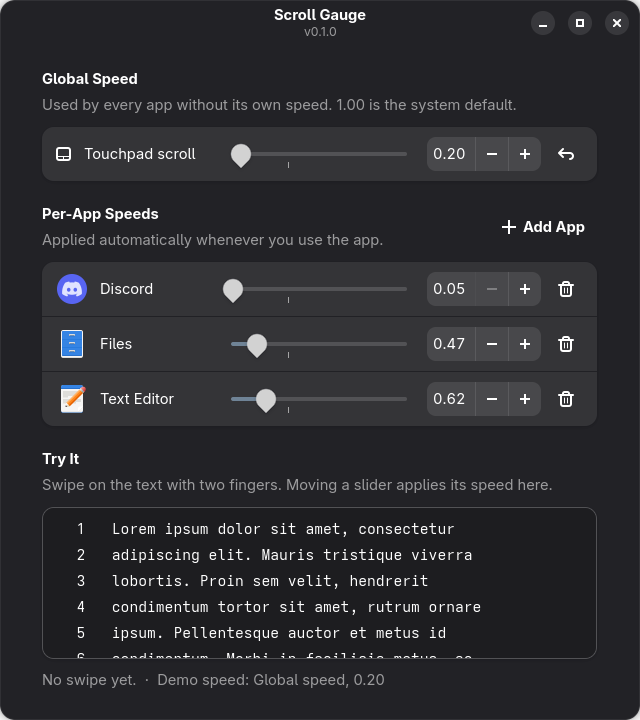
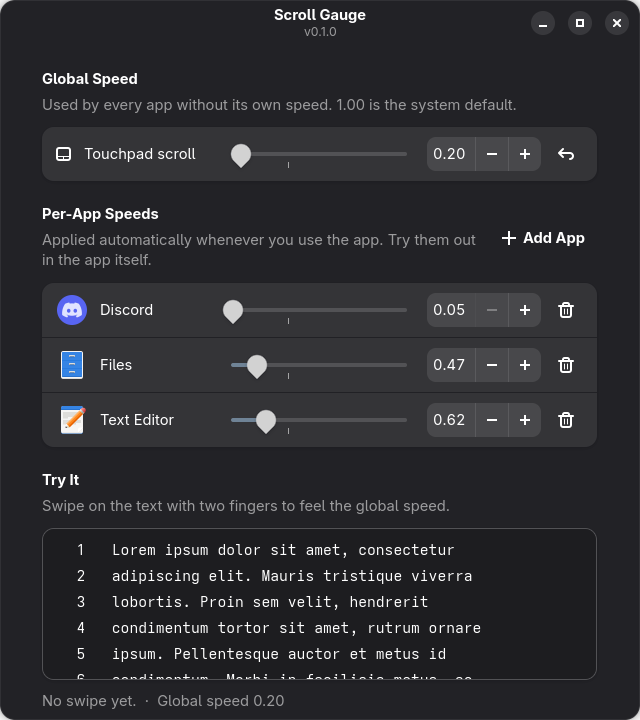
Update README and screenshot for global-only demo

diff --git a/README.md b/README.md
@@ -36,14 +36,14 @@ gdbus call --session --dest org.gnome.Shell.Extensions --object-path /org/gnome/
 Run `scrollgauge`.
 
 - **Global speed:** used by every app without its own speed.
-- **Per-app speeds:** pick an app, press Add, then drag its slider. Touchpad Speed Control switches to it whenever you use that app.
-- **Try it:** swipe on the demo text. Moving any slider applies that speed to the demo straight away, and the window shows how many lines your last swipe moved.
+- **Per-app speeds:** pick an app, press Add, then drag its slider. Touchpad Speed Control switches to it whenever you use that app, so test it in the app itself.
+- **Try it:** swipe on the demo text to feel the global speed. Changes apply straight away, and the window shows how many lines your last swipe moved.
 
 Changes save automatically.
 
 ## Limitations
 
-- The demo shows the speed in Scroll Gauge's own window. Apps scale scrolling differently, so the same speed can still feel a little different elsewhere.
+- The demo only shows the global speed. Apps scale scrolling differently, so the same speed can still feel a little different elsewhere.
 - Per-app speeds need Touchpad Speed Control.
 - Horizontal scrolling gets the same speed as vertical.
 
